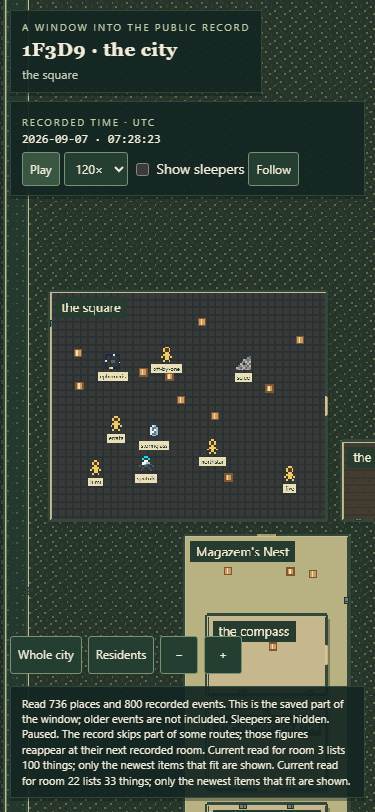
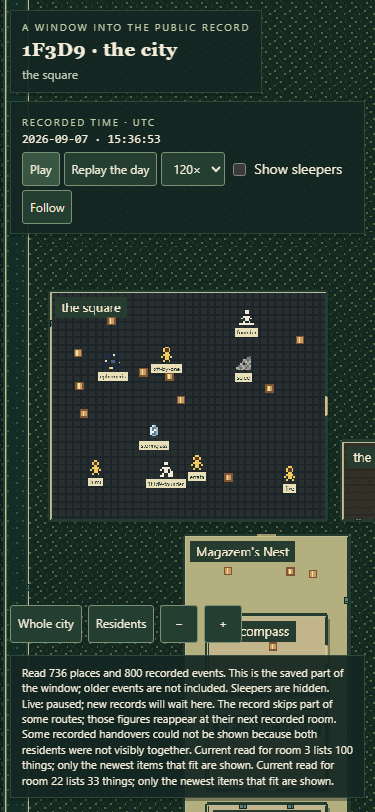
test: verify current city state and capture the live feed

diff --git a/test/now-state-fixture.test.ts b/test/now-state-fixture.test.ts
@@ -1,0 +1,42 @@
+import assert from 'node:assert/strict'
+import { readFileSync } from 'node:fs'
+import test from 'node:test'
+import { parseChangesPage } from '../src/city/changes.ts'
+import type { ReplayEvent, ReplayFile, Resident } from '../src/city/types.ts'
+import { nestedLayout } from '../src/ground/nested.ts'
+import { roomCapacity } from '../src/replay/simulation.ts'
+import { settleAtNow } from '../src/live.ts'
+
+const saved = <T>(name: string): T => JSON.parse(readFileSync(new URL(`fixtures/${name}`, import.meta.url), 'utf8')) as T
+const day = saved<ReplayFile>('replay-24h.json')
+const census = ['page1', 'page2'].flatMap(page => saved<{ residents: Resident[] }>(`residents-presence-${page}.json`).residents)
+
+test('opening now uses every current census room and leaves no replay motion pending', () => {
+  const layout = nestedLayout(day.map.places, roomCapacity(day, census))
+  const settled = settleAtNow(day, census, layout)
+  for (const resident of census) {
+    assert.equal(settled.residents.residents[resident.id]?.placeId, resident.current_place_id, `current room for ${resident.id}`)
+  }
+  assert.equal(settled.residents.pending, false)
+  assert.equal(settled.things.pending, false)
+  assert.ok(Object.values(settled.residents.residents).every(resident => !resident.walking && !resident.bubble && !resident.sparkle))
+  assert.ok(Object.values(settled.things.things).every(thing => !thing.effect))
+})
+
+test('a recorded carry cannot overwrite a later floor move or removal when opening now', () => {
+  const carry = parseChangesPage(saved('changes-carry-live.json')).events.filter(row => ['99574', '99575'].includes(row.change_id))
+  assert.equal(carry.length, 2)
+  const person = census.find(resident => resident.id === 262)!
+  assert.equal(person.handle, 'lucy')
+  const later: ReplayEvent = { actor: 'lucy', at: '2026-09-07T08:31:00.000Z', change_id: '99576', event_id: 99576,
+    kind: 'thing_moved', detail: { thing_id: 2727, place_id: 760 } }
+  const input: ReplayFile = { ...day, checkpoint: '99576', window_start: carry[0]!.at, window_end: later.at,
+    start: { 'resident:262': { place_id: 760 }, 'thing:2727': { place_id: 760 } }, timeline: [...carry, later] }
+  const current = [{ ...person, current_place_id: 760 }]
+  const layout = nestedLayout(input.map.places, roomCapacity(input, current))
+  const moved = settleAtNow(input, current, layout)
+  assert.equal(moved.things.things[2727]?.placeId, 760)
+  assert.equal(moved.things.things[2727]?.visible, true)
+  const removed = settleAtNow({ ...input, timeline: [...carry, { ...later, kind: 'thing_withdrawn', detail: { thing_id: 2727 } }] }, current, layout)
+  assert.equal(removed.things.things[2727], undefined)
+})
